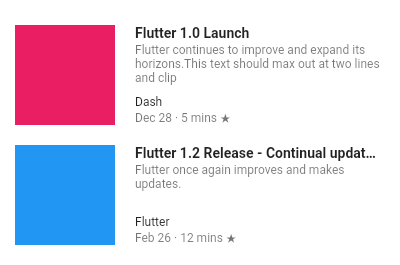
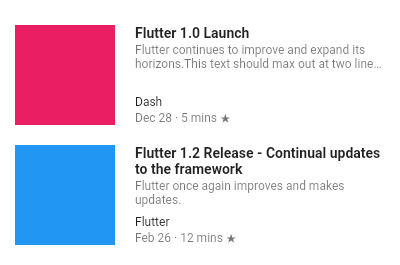
fix mismatch in subtitle text and provided maxLines

diff --git a/packages/diagrams/lib/src/custom_list_item.dart b/packages/diagrams/lib/src/custom_list_item.dart
@@ -123,7 +123,7 @@ class _ArticleDescription extends StatelessWidget {
             children: <Widget>[
               Text(
                 '$title',
-                maxLines: 1,
+                maxLines: 2,
                 overflow: TextOverflow.ellipsis,
                 style: const TextStyle(
                   fontWeight: FontWeight.bold,
@@ -132,7 +132,7 @@ class _ArticleDescription extends StatelessWidget {
               const Padding(padding: EdgeInsets.only(bottom: 2.0)),
               Text(
                 '$subtitle',
-                maxLines: 3,
+                maxLines: 2,
                 overflow: TextOverflow.ellipsis,
                 style: const TextStyle(
                   fontSize: 12.0,
@@ -141,7 +141,7 @@ class _ArticleDescription extends StatelessWidget {
               ),
             ],
           ),
-          flex: 3,
+          flex: 2,
         ),
         Expanded(
           child: Column(
@@ -164,7 +164,7 @@ class _ArticleDescription extends StatelessWidget {
               ),
             ],
           ),
-          flex: 2,
+          flex: 1,
         ),
       ],
     );
